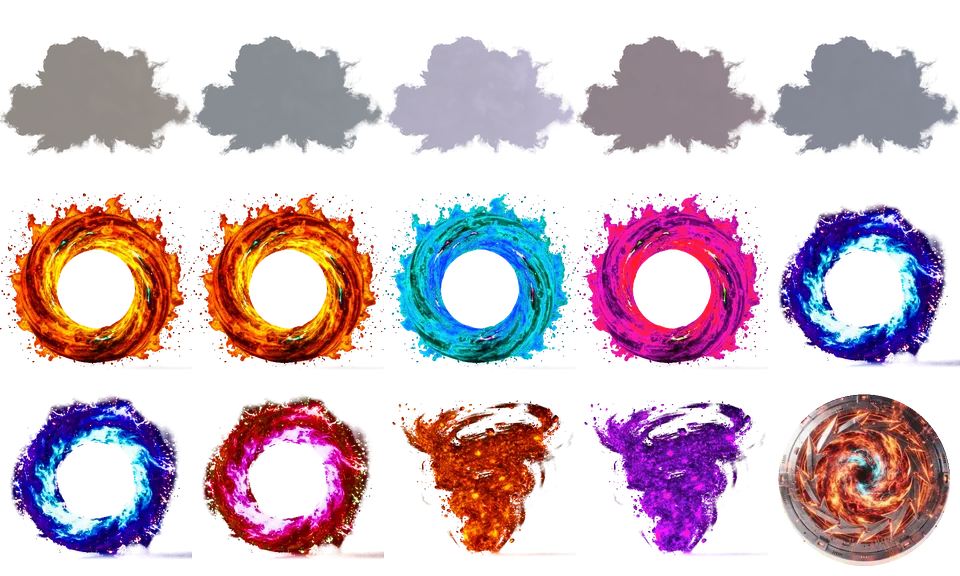
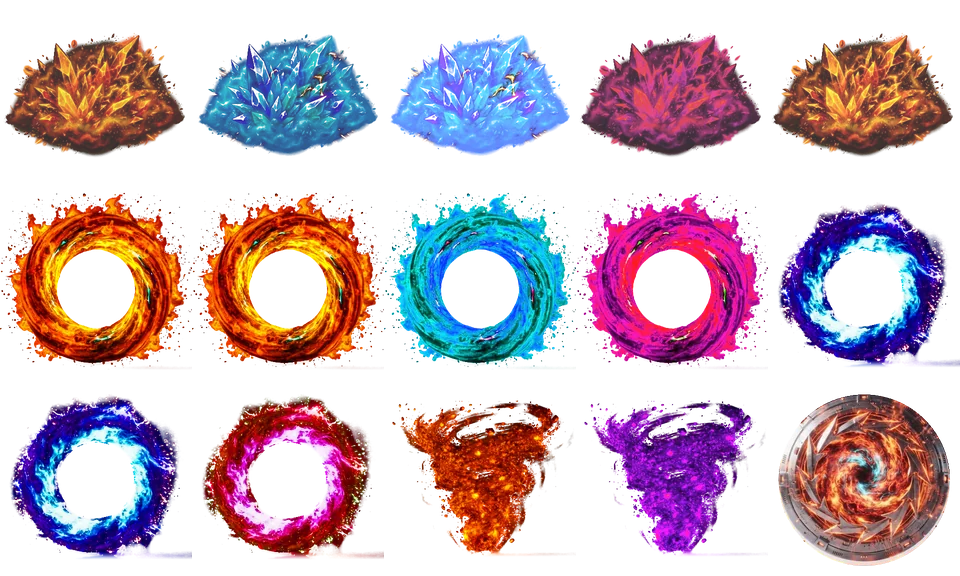
Flying hazards: replace the smoke cloud with fire and ice crystal bursts, graded per world
Still the harmless first hazard (id 'smoke'), drawn behind everything; same atlas layout and budgets.

Claude-Session: https://claude.ai/code/session_01KKBLTpPYE5sC947rR2zF5e

Changed region(s): [[0.0, 0.0625, 1.0, 0.2812]]

diff --git a/src/systems/fliers/fliers.js b/src/systems/fliers/fliers.js
@@ -2,7 +2,7 @@
  * Flying hazards: five effects that cross the sky toward the bird, introduced one world at a time. Pure data and maths (no three.js, no React, no random numbers), shared by the simulation, the
  * spawner, the Auto play bot, the renderer and the tests.
  *
- *  - Smoke cloud (World 1):  HARMLESS. It drifts across; it never touches the bird, an obstacle or an orb, and is drawn behind them. The first, safe introduction.
+ *  - Crystal burst (World 1; id 'smoke', the old smoke cloud, now drawn as a fire or ice crystal burst):  HARMLESS. It drifts across; it never touches the bird, an obstacle or an orb, and is drawn behind them. The first, safe introduction.
  *  - Fire ring (World 2) and energy ring (World 3):  GATES: hoops to fly through. Only the TOP and BOTTOM of the rim are lethal: the middle band (where the bird passes through the hoop) is safe, and
  *    so is going round the ring. (Seen from the side a hoop's left and right rim cannot be avoided when flying through it, so they are not lethal.)
  *  - Ember tornado (World 4) and metal disc (World 5):  LETHAL on contact.
@@ -68,7 +68,7 @@ function pickKind(e, h, seen, count) {
   // the first event of a world after NEW_AFTER m is always its newest type (the introduction); after that the newest type and the older ones alternate (so about half of a world's events are its own)
   if (newest && e - start >= NEW_AFTER && (older.length === 0 || !seen.has(newest) || count % 2 === 0)) return newest;
   if (older.length) return older[Math.min(older.length - 1, Math.floor(hash01(h * 91.7 + e * 0.013) * older.length))];
-  return null; // nothing yet in this stretch of the first world (the smoke cloud arrives after 400 m)
+  return null; // nothing yet in this stretch of the first world (the first, harmless crystal burst arrives after 400 m)
 }
 
 /** The events of the journey, in order: { e (encounter distance), kind, yc (centre height at the encounter), dir (+1 or -1: which way it sways first) }. */

diff --git a/src/components/scene/FlierField.jsx b/src/components/scene/FlierField.jsx
@@ -5,7 +5,7 @@ import { worldIndexAt } from '../../systems/world/worlds.js';
 import { ATLAS, ATLAS_COLS, ATLAS_ROWS, FLIERS, ROLE, SHAPE, SLOTS, flierPlace } from '../../systems/fliers/fliers.js';
 
 /**
- * Flying hazards (systems/fliers): the smoke cloud, the fire and energy rings, the ember tornado and the metal disc, drawn from public/images/hazards/hazards.webp, ONE atlas with a cell per
+ * Flying hazards (systems/fliers): the harmless crystal burst (id 'smoke'; fire crystals or ice crystals, graded per world), the fire and energy rings, the ember tornado and the metal disc, drawn from public/images/hazards/hazards.webp, ONE atlas with a cell per
  * (hazard, world) pair, colour-graded for the world the hazard appears in. VISUAL ONLY: what touches the bird is decided by the simulation from the same pure function (`flierPlace`) this file draws
  * from, at the bird's distance, so the picture and the hitbox cannot drift apart. No outline. A hazard's mesh is hidden while none of its kind is on screen (usually nothing is drawn); nothing is
  * allocated per frame. The harmless smoke is drawn behind the obstacles, the orbs and the bird, so it can never hide anything that matters.

diff --git a/scripts/build-hazard-atlas.py b/scripts/build-hazard-atlas.py
@@ -1,6 +1,9 @@
 """
 Builds public/images/hazards/hazards.webp: the flying-hazard sprites cut out of five supplied paintings (each an effect on a pale studio background), one 192 px cell per (hazard, world) pair
-that exists (a hazard is introduced in one world and stays in the later ones), colour-graded for the world it appears in. Run: python3 scripts/build-hazard-atlas.py <folder with 49.jpg ... 53.jpg>
+that exists (a hazard is introduced in one world and stays in the later ones), colour-graded for the world it appears in. Run: python3 scripts/build-hazard-atlas.py <folder with 49.jpg ... 55.jpg>
+
+The first hazard (id 'smoke', world 1 onwards) is a harmless crystal burst, cut from two supplied paintings (54.jpg a fire crystal burst, 55.jpg an ice crystal burst); it replaced the smoke cloud. Each world gets the
+painting and the colour grade that blend with it (see GRADE).
 
 Cut-out: "colour to alpha" against the background (alpha = the largest per-channel darkening, colour = what remains once the background is taken out), so fire, embers, smoke and energy keep their
 soft edges; the disc and the rims of the rings get an opaque body (a flat average would make them translucent), the ring holes are cleared, and the faint floor shadow is thresholded away.
@@ -13,19 +16,23 @@ from PIL import Image, ImageDraw, ImageFilter
 SRC = sys.argv[1] if len(sys.argv) > 1 else '.'
 CELL = 192
 KINDS = ['smoke', 'firering', 'energyring', 'tornado', 'disc']
-FILES = {'disc': 49, 'tornado': 50, 'smoke': 51, 'energyring': 52, 'firering': 53}
+FILES = {'disc': 49, 'tornado': 50, 'smoke': 54, 'energyring': 52, 'firering': 53}
+ICE_FILE = 55  # the second crystal painting
 INTRO = {'smoke': 0, 'firering': 1, 'energyring': 2, 'tornado': 3, 'disc': 4}
 # crop centre, half-size (px in the source) and, for the shaped ones, the body radius and hole radius (px)
 GEO = {
     'disc': dict(c=(704, 385), half=308, body=275, hole=0),
     'tornado': dict(c=(700, 330), half=400, body=0, hole=0),
-    'smoke': dict(c=(712, 385), half=480, body=0, hole=0),
+    'smoke': dict(c=(690, 385), half=470, body=0, hole=0),
+    'ice': dict(c=(700, 385), half=470, body=0, hole=0),
     'energyring': dict(c=(718, 380), half=340, body=262, hole=140),
     'firering': dict(c=(704, 388), half=340, body=270, hole=140),
 }
 # per (kind, world index 0..4): hue shift in degrees, saturation and brightness multipliers, and for smoke an optional tint colour
 GRADE = {
-    'smoke': [dict(tint=(98, 78, 64)), dict(tint=(70, 86, 104)), dict(tint=(205, 190, 255)), dict(tint=(92, 52, 76)), dict(tint=(60, 70, 110))],
+    # the crystal burst: the fire painting in the warm worlds, the ice painting in the cold ones, each graded to sit in its world
+    'smoke': [dict(src='smoke', sat=0.95, val=0.95), dict(src='ice', sat=1.5, val=0.78), dict(src='ice', hue=12, sat=0.75, val=1.65),
+              dict(src='smoke', hue=-48, sat=0.85, val=0.9), dict(src='smoke', hue=0, sat=0.9, val=1.0)],
     'firering': [None, dict(hue=0), dict(hue=0), dict(hue=170, sat=0.95), dict(hue=300, sat=0.9)],
     'energyring': [None, None, None, None, dict(hue=110, sat=1.0)],
     'tornado': [None, None, None, dict(hue=0), dict(hue=265, sat=0.9)],
@@ -55,7 +62,7 @@ def smooth(a, b, x):
 
 def cut(kind):
     g = GEO[kind]
-    im = Image.open(os.path.join(SRC, f'{FILES[kind]}.jpg')).convert('RGB')
+    im = Image.open(os.path.join(SRC, f'{ICE_FILE if kind == "ice" else FILES[kind]}.jpg')).convert('RGB')
     bgc = np.median(np.concatenate([np.asarray(im)[:30].reshape(-1, 3), np.asarray(im)[:, :30].reshape(-1, 3), np.asarray(im)[:, -30:].reshape(-1, 3)]), axis=0).astype(float)
     cx, cy = g['c']; H = g['half']
     # crop square (padding with the background colour where the crop leaves the picture), at twice the cell size for a clean downsample
@@ -86,17 +93,15 @@ def cut(kind):
         ysrc = (yy - CELL) / (CELL * 2 / 2 / H) + g['c'][1]
         alpha = alpha * (1 - smooth(618, 650, ysrc))  # the glow on the floor under the base
     if kind == 'smoke':
-        alpha = (alpha ** 1.25) * 0.55  # a soft, translucent cloud: it is harmless, so it should read as haze
+        alpha = (alpha ** 0.9) * 0.82  # a little see-through: the crystals are harmless and drawn behind everything
+    if kind == 'ice':
+        alpha = (alpha ** 0.55) * 0.82  # the pale painting would otherwise lose its white facets against the white background
     return colour, alpha
 
 def grade(kind, world, colour, alpha):
     spec = GRADE[kind][world]
     if spec is None:
         return colour
-    if 'tint' in spec:  # smoke: keep the cloud's light-and-dark structure, in the world's colour
-        L = colour.mean(2, keepdims=True) / 255.0
-        t = np.array(spec['tint'], float)
-        return np.clip(t * (0.55 + 0.9 * L), 0, 255)
     return hsv(colour, spec.get('hue', 0), spec.get('sat', 1.0), spec.get('val', 1.0))
 
 def cell_image(kind, world, base):
@@ -109,8 +114,10 @@ cells = [(k, w) for k in KINDS for w in range(5) if w >= INTRO[k]]
 cols = 5; rows = (len(cells) + cols - 1) // cols
 atlas = Image.new('RGBA', (CELL * cols, CELL * rows), (0, 0, 0, 0))
 bases = {k: cut(k) for k in KINDS}
+bases['ice'] = cut('ice')
 for i, (k, w) in enumerate(cells):
-    atlas.paste(cell_image(k, w, bases[k]), ((i % cols) * CELL, (i // cols) * CELL))
+    src = GRADE[k][w].get('src', k) if GRADE[k][w] else k  # the crystal burst picks its painting per world
+    atlas.paste(cell_image(k, w, bases[src]), ((i % cols) * CELL, (i // cols) * CELL))
 out = os.path.join(os.path.dirname(os.path.abspath(__file__)), '..', 'public', 'images', 'hazards', 'hazards.webp')
 atlas.save(out, 'WEBP', quality=84, method=6)
 print('cells', len(cells), 'atlas', atlas.size, 'KB', os.path.getsize(out) // 1024)

diff --git a/README.md b/README.md
@@ -420,7 +420,7 @@ Five effects from the supplied paintings cross the sky toward the bird, introduc
 
 | World | New hazard | Role |
 |---|---|---|
-| 1 Red Rock Canyon | smoke cloud | **harmless** haze that drifts across, drawn behind the obstacles, orbs and bird (it can never hide anything) |
+| 1 Red Rock Canyon | crystal burst (id `smoke`) | **harmless** burst of fire crystals (ice crystals in the cold worlds, graded per world) that drifts across, drawn behind the obstacles, orbs and bird (it can never hide anything) |
 | 2 Frosty Polar | fire ring | **gate**: a hoop to fly through |
 | 3 Celestial Realm | energy ring | **gate** |
 | 4 Rose Sky Palace | ember tornado | **lethal** (a tall capsule) |
@@ -428,7 +428,7 @@ Five effects from the supplied paintings cross the sky toward the bird, introduc
 
 - **Gates:** only the TOP and BOTTOM of a ring's rim are lethal. Seen from the side a hoop's left and right rim cannot be avoided when flying through it, so they are not lethal; the bird passes if its centre is within about 0.57 m of the ring's centre, or it can simply go round. (An earlier draft made the whole rim lethal, which made flying through impossible: a test caught it.)
 - **Forgiveness:** lethal shapes use 75% of their drawn size (and the rim's middle 75%). A shield absorbs a hit: it puts the bird in a ring's hole or clear above or below the shape, with the usual 1.5 s immunity.
-- **Flight:** each hazard flies toward the bird on a straight line in (distance, track x) and sways on a sine; its place is a pure function of the bird's distance, so it is frame-rate independent, frozen by pause, reset by a retry, and Auto play predicts it exactly. It is visible from the right edge, at least about 1.4 s (disc) to 3 s (smoke) before it can touch.
+- **Flight:** each hazard flies toward the bird on a straight line in (distance, track x) and sways on a sine; its place is a pure function of the bird's distance, so it is frame-rate independent, frozen by pause, reset by a retry, and Auto play predicts it exactly. It is visible from the right edge, at least about 1.4 s (disc) to 3 s (crystal burst) before it can touch.
 - **Schedule:** about 30 events: one every ~400 m in World 1 down to ~200 m in World 5 (jittered by hashes). The first event of a world after 400 m into it is always the world's new type; after that the new type and the older ones alternate. Never within 120 m of another, never overlapping a biome hazard window.
 - **The track makes room:** every event reserves a band `[e - 8, e + 22]` m; the spawner starts the next obstacle section after it (the same way the biome hazards reserve runway). No random number is drawn, so the sections are the same sequence, just shifted. **This lowers the obstacle density a little (about 5% in World 1 to 11% in World 5) and changes generated tracks again**; with `?fliers=0` (or `FLIERS.enabled = false`) there are no hazards and no bands.
 - **Auto play and Journey Preview** plan with the same functions and flew two whole journeys through every hazard in the tests. Tests that fly a corridor-following bird, which cannot dodge, run with the hazards off.

diff --git a/public/images/hazards/README.md b/public/images/hazards/README.md
@@ -1,7 +1,7 @@
 # Flying-hazard atlas
 
 `hazards.webp` (960 x 576, about 150 KB, with transparency) holds the flying-hazard sprites: five 192 px columns by three rows, one cell for every (hazard, world) pair that exists, row by row in this order:
-smoke cloud (worlds 1-5), fire ring (2-5), energy ring (3-5), ember tornado (4-5), metal disc (5). A hazard is introduced in one world and stays in the later ones, colour-graded for each.
+crystal burst (worlds 1-5; id `smoke`, a harmless fire or ice crystal burst that replaced the smoke cloud), fire ring (2-5), energy ring (3-5), ember tornado (4-5), metal disc (5). A hazard is introduced in one world and stays in the later ones, colour-graded for each.
 
-They were cut from five supplied paintings (an effect on a pale studio background) by `scripts/build-hazard-atlas.py` ("colour to alpha" against the background, an opaque body for the disc and the ring rims, the ring holes cleared,
-the floor shadow thresholded away, no outline added), then graded per world. The (hazard, world) -> cell table is `ATLAS` in `src/systems/fliers/fliers.js`; `scripts/fliers-test.mjs` checks the file's size and layout.
+They were cut from seven supplied paintings (the crystal burst from two: a fire and an ice crystal burst) (an effect on a pale studio background) by `scripts/build-hazard-atlas.py` ("colour to alpha" against the background, an opaque body for the disc and the ring rims, the ring holes cleared,
+the floor shadow thresholded away, no outline added), then graded per world (the crystal burst takes the fire painting in the warm worlds and the ice painting in the cold ones). The (hazard, world) -> cell table is `ATLAS` in `src/systems/fliers/fliers.js`; `scripts/fliers-test.mjs` checks the file's size and layout.
